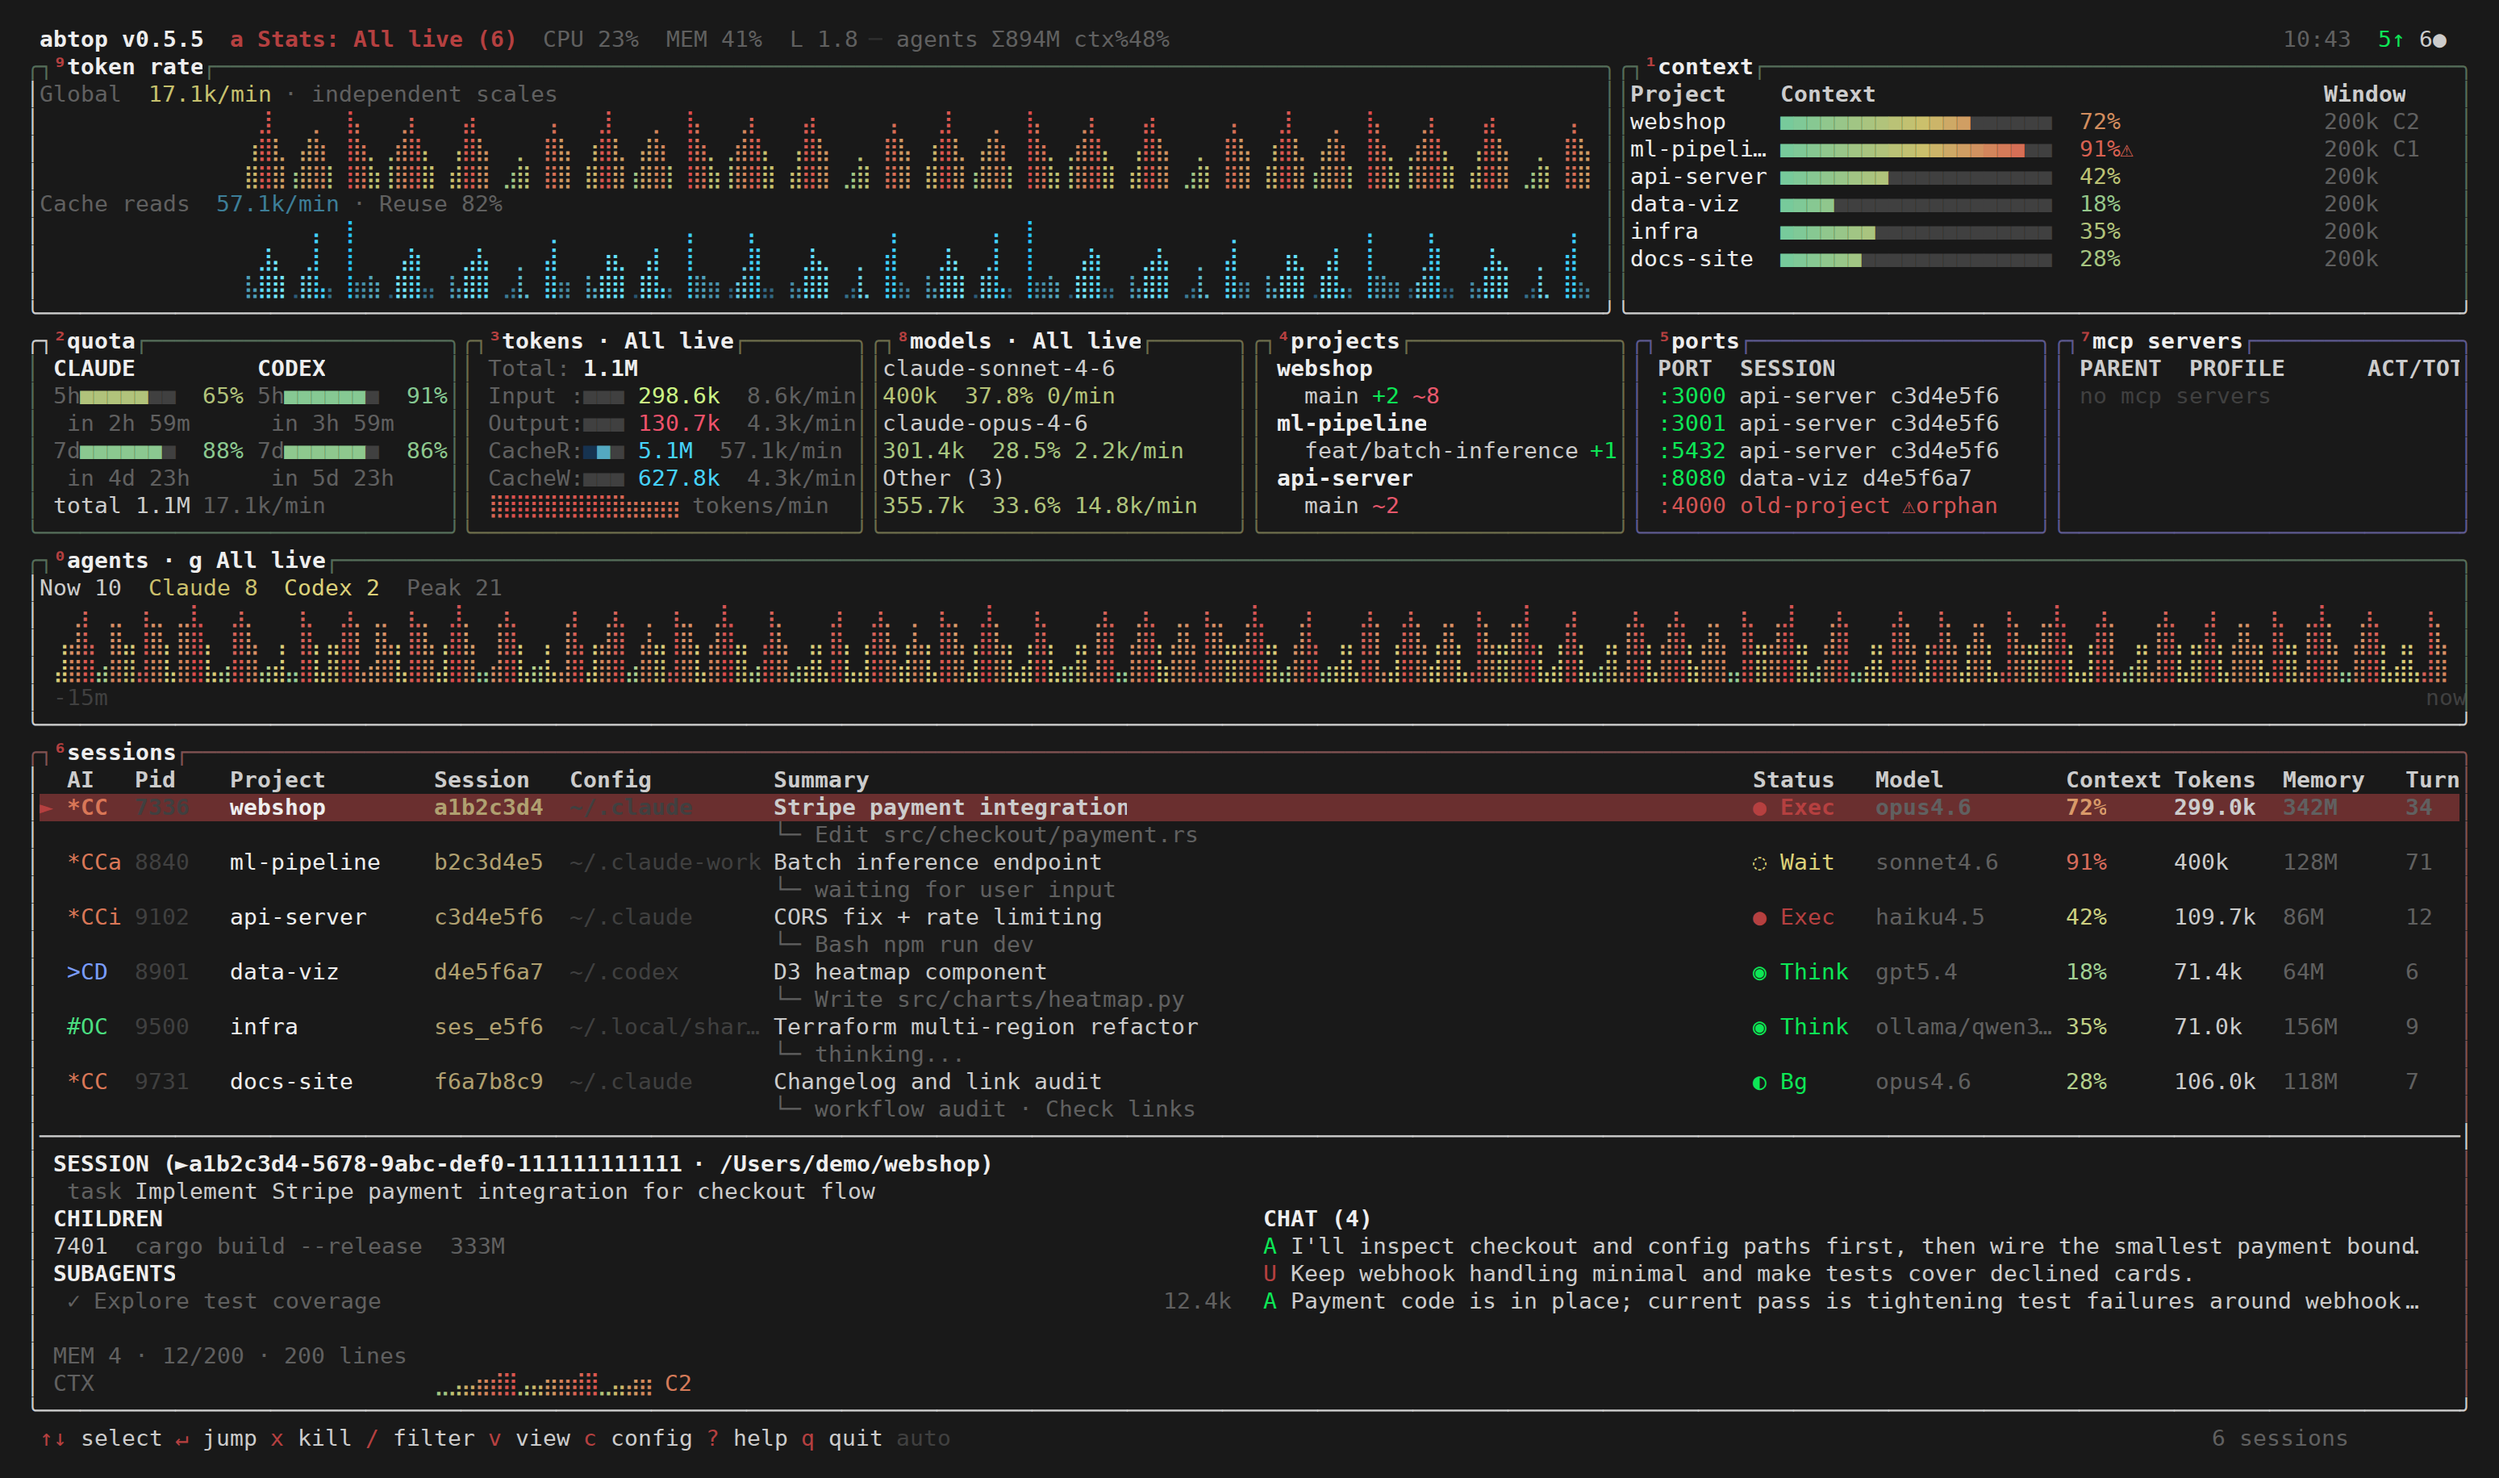
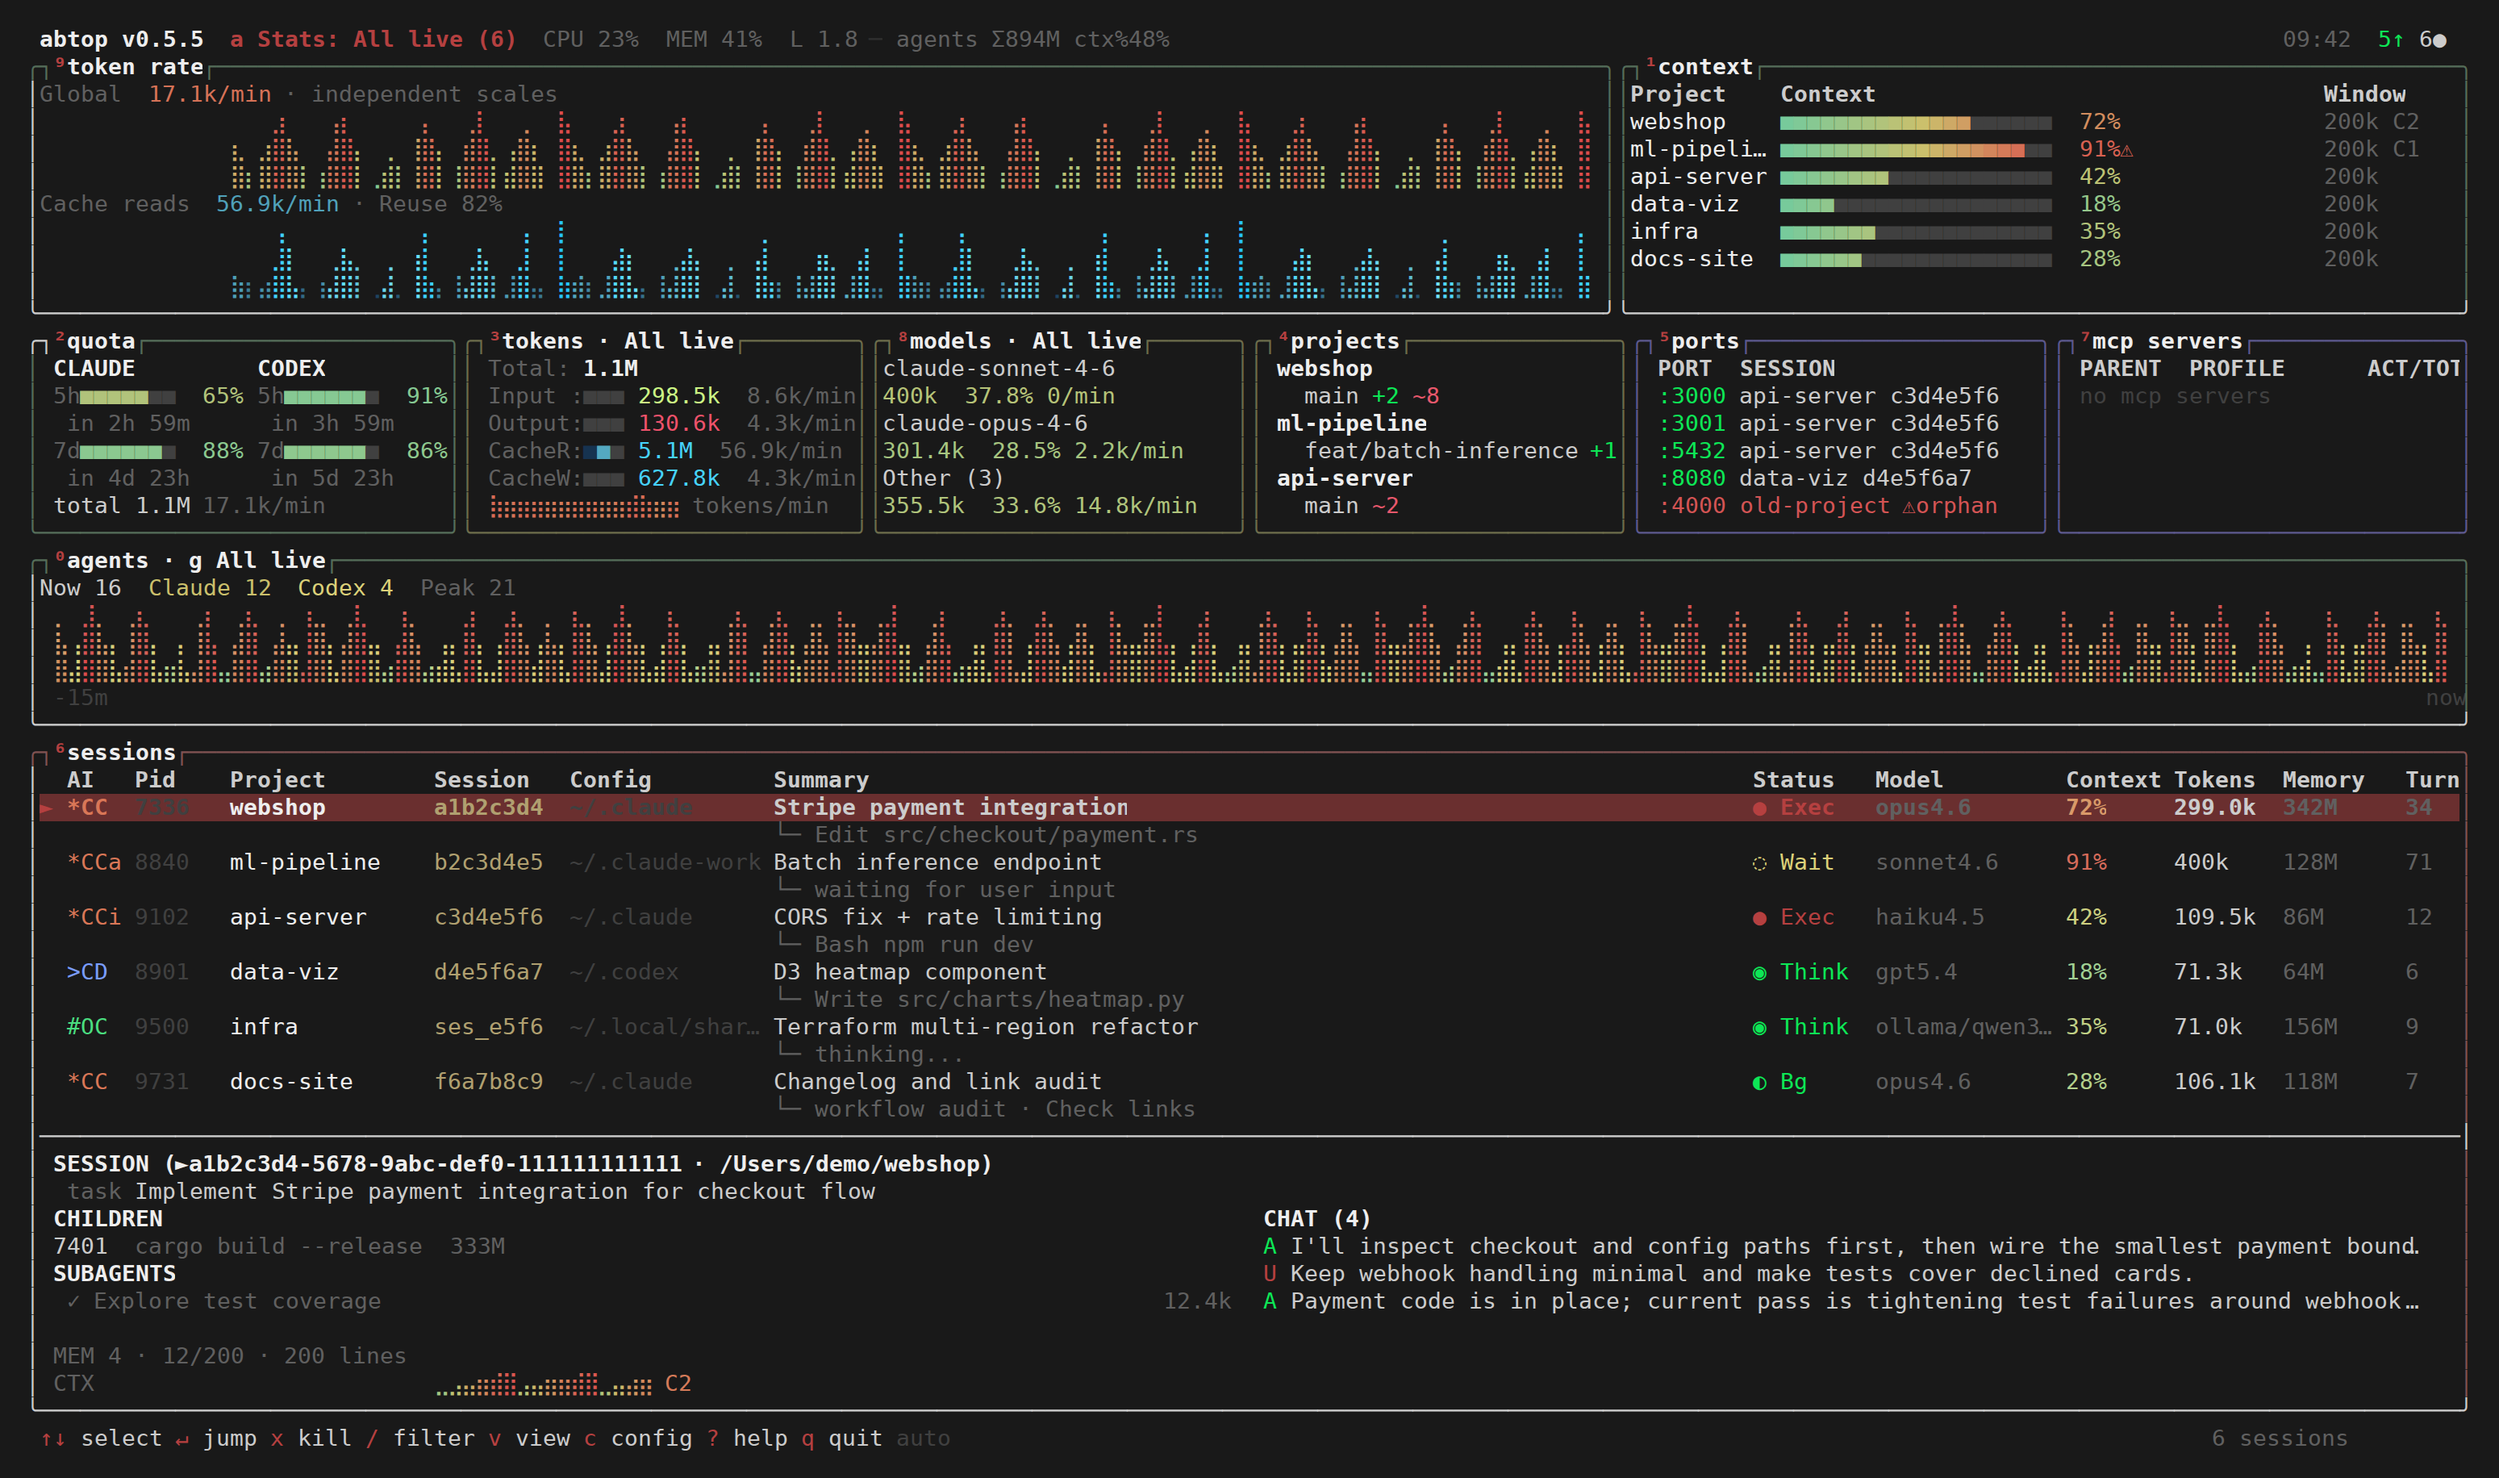
docs: add screenshot with Quota and Ports hidden
Give each capture its own throwaway HOME: panel toggles and the C/a keys
are saved to config, so they leaked from one capture into the next
(narrow-usage had inherited the cache chart and All live scope).

diff --git a/README.md b/README.md
@@ -29,6 +29,10 @@ Details for each feature: [docs/remix-features.md](docs/remix-features.md).
 |:-:|:-:|
 | ![Cache-read chart with Reuse %, Tokens and Models in All live scope](assets/remix/cache-all-live.png) | ![Narrow Usage tab](assets/remix/narrow-usage.png) |
 
+Hiding panes you don't need gives the rest more room. With Quota (`2`) and Ports (`5`) off, Tokens and Models widen:
+
+![Quota and Ports hidden: Tokens and Models use the freed width](assets/remix/focused.png)
+
 ## Why
 
 - Running 3+ agents across projects? See them all in one screen.

diff --git a/docs/remix-features.md b/docs/remix-features.md
@@ -109,6 +109,10 @@ The desktop layout reserves minimum widths for enabled panes and switches to tab
 
 ![Narrow Usage tab](../assets/remix/narrow-usage.png)
 
+Hidden panes free their width for the rest of the row. Here Quota (`2`) and Ports (`5`) are off:
+
+![Quota and Ports hidden](../assets/remix/focused.png)
+
 ## JSON snapshots and library API
 
 For library consumers,
